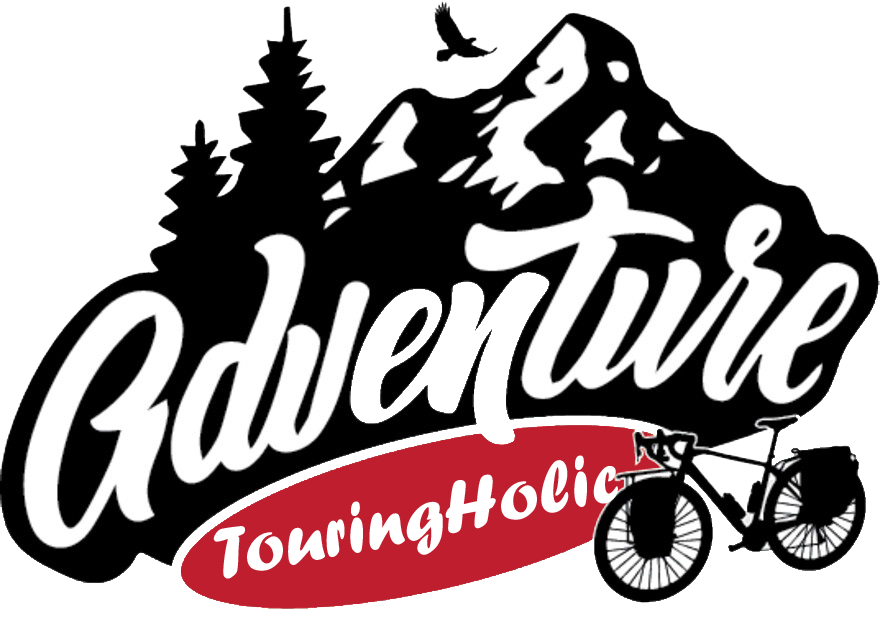
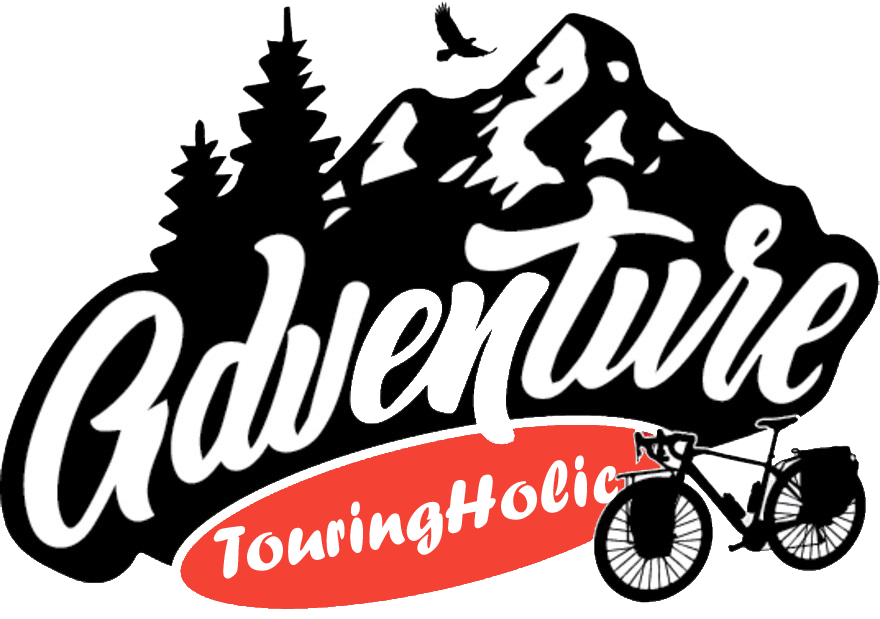
themes

Changed region(s): [[0.1841, 0.6753, 0.767, 0.9822]]

diff --git a/touringholic/lib/view/touringgramscreen.dart b/touringholic/lib/view/touringgramscreen.dart
@@ -1,0 +1,54 @@
+import 'package:flutter/material.dart';
+import 'package:touringholic/model/user.dart';
+import 'package:touringholic/view/mydrawer.dart';
+
+class TouringGramScreen extends StatefulWidget {
+  final User user;
+
+  const TouringGramScreen({Key key, this.user}) : super(key: key);
+
+  @override
+  _TouringGramScreenState createState() => _TouringGramScreenState();
+}
+
+class _TouringGramScreenState extends State<TouringGramScreen> {
+  int _currentIndex = 0;
+  final List<Widget> _children = [];
+  @override
+  Widget build(BuildContext context) {
+    return Scaffold(
+      bottomNavigationBar: BottomNavigationBar(
+          type: BottomNavigationBarType.fixed,
+          selectedItemColor: Colors.red,
+          unselectedItemColor: Colors.red.withOpacity(.60),
+          selectedFontSize: 14,
+          unselectedFontSize: 14,
+          onTap: (value) {
+            setState(() {
+              _currentIndex = value;
+            });
+          },
+          items: [
+            BottomNavigationBarItem(
+              label: 'Latest Grams',
+              icon: Icon(Icons.new_releases),
+            ),
+            BottomNavigationBarItem(
+              label: 'New Gram',
+              icon: Icon(Icons.camera),
+            ),
+            BottomNavigationBarItem(
+                label: 'Your Gram', icon: Icon(Icons.favorite_rounded)),
+          ]),
+      appBar: AppBar(
+        title: Text('Touring Gram'),
+      ),
+      drawer: MyDrawer(user: widget.user),
+      body: Center(
+        child: Container(
+          child: Text('Hello World'),
+        ),
+      ),
+    );
+  }
+}

diff --git a/touringholic/lib/view/registrationscreen.dart b/touringholic/lib/view/registrationscreen.dart
@@ -82,7 +82,7 @@ class _RegistrationScreenState extends State<RegistrationScreen> {
                                 color: Colors.white,
                               )),
                           onPressed: _onRegister,
-                          color: Color.fromRGBO(191, 30, 46, 50)),
+                          color: Colors.red),
                       SizedBox(height: 10),
                     ],
                   ),
@@ -119,7 +119,7 @@ class _RegistrationScreenState extends State<RegistrationScreen> {
           toastLength: Toast.LENGTH_SHORT,
           gravity: ToastGravity.BOTTOM,
           timeInSecForIosWeb: 1,
-          backgroundColor: Color.fromRGBO(191, 30, 46, 50),
+          backgroundColor: Colors.red,
           textColor: Colors.white,
           fontSize: 16.0);
       return;
@@ -168,7 +168,7 @@ class _RegistrationScreenState extends State<RegistrationScreen> {
             toastLength: Toast.LENGTH_SHORT,
             gravity: ToastGravity.BOTTOM,
             timeInSecForIosWeb: 1,
-            backgroundColor: Color.fromRGBO(191, 30, 46, 50),
+            backgroundColor: Colors.red,
             textColor: Colors.white,
             fontSize: 16.0);
         FocusScope.of(context).unfocus();
@@ -179,7 +179,7 @@ class _RegistrationScreenState extends State<RegistrationScreen> {
             toastLength: Toast.LENGTH_SHORT,
             gravity: ToastGravity.BOTTOM,
             timeInSecForIosWeb: 1,
-            backgroundColor: Color.fromRGBO(191, 30, 46, 50),
+            backgroundColor: Colors.red,
             textColor: Colors.white,
             fontSize: 16.0);
       }

diff --git a/touringholic/lib/model/themes.dart b/touringholic/lib/model/themes.dart
@@ -5,10 +5,34 @@ class CustomTheme {
     return ThemeData(
       brightness: Brightness.dark,
       primaryColor: Colors.black,
-      accentColor: Color.fromRGBO(191, 30, 46, 50),
+      accentColor: Colors.red[400],
       // ignore: deprecated_member_use
-      cursorColor: Color.fromRGBO(191, 30, 46, 50),
-      focusColor: Color.fromRGBO(191, 30, 46, 50),
+      focusColor: Colors.red,
+      // Define the default font family.
+      fontFamily: 'Georgia',
+      textSelectionTheme: TextSelectionThemeData(
+          selectionHandleColor: Colors.red,
+          cursorColor: Colors.red),
+      // Define the default TextTheme. Use this to specify the default
+      // text styling for headlines, titles, bodies of text, and more.
+      textTheme: TextTheme(
+        headline1: TextStyle(fontSize: 42.0, fontWeight: FontWeight.bold),
+        headline6: TextStyle(fontSize: 24.0, fontStyle: FontStyle.italic),
+        bodyText2: TextStyle(fontSize: 14.0, fontFamily: 'Hind'),
+      ),
+    );
+  }
+
+  static ThemeData get lighttheme {
+    return ThemeData(
+      brightness: Brightness.light,
+      primaryColor: Colors.red,
+      accentColor: Colors.red[400],
+      // ignore: deprecated_member_use
+      focusColor: Colors.red,
+      textSelectionTheme: TextSelectionThemeData(
+          selectionHandleColor: Colors.red,
+          cursorColor: Colors.red),
       // Define the default font family.
       fontFamily: 'Georgia',
 

diff --git a/touringholic/lib/view/mydrawer.dart b/touringholic/lib/view/mydrawer.dart
@@ -1,10 +1,11 @@
 import 'package:flutter/material.dart';
 import 'package:touringholic/model/user.dart';
-import 'touringgram.dart';
+import 'package:touringholic/view/mainscreen.dart';
+import 'touringgramscreen.dart';
 
 class MyDrawer extends StatefulWidget {
   final User user;
-  
+
   const MyDrawer({Key key, this.user}) : super(key: key);
   @override
   _MyDrawerState createState() => _MyDrawerState();
@@ -37,13 +38,23 @@ class _MyDrawerState extends State<MyDrawer> {
             title: Text("Dashboard"),
             onTap: () {
               Navigator.pop(context);
+              Navigator.push(
+                  context,
+                  MaterialPageRoute(
+                      builder: (content) => MainScreen(
+                            user: widget.user,
+                          )));
             }),
         ListTile(
             title: Text("TouringGram"),
             onTap: () {
               Navigator.pop(context);
-              Navigator.push(context,
-                  MaterialPageRoute(builder: (content) => TouringGram(user: widget.user,)));
+              Navigator.push(
+                  context,
+                  MaterialPageRoute(
+                      builder: (content) => TouringGramScreen(
+                            user: widget.user,
+                          )));
             }),
         ListTile(
             title: Text("Preloved"),

diff --git a/touringholic/lib/view/loginscreen.dart b/touringholic/lib/view/loginscreen.dart
@@ -85,7 +85,7 @@ class _LoginScreenState extends State<LoginScreen> {
                               color: Colors.white,
                             )),
                         onPressed: _onLogin,
-                        color: Color.fromRGBO(191, 30, 46, 50)),
+                        color: Colors.red),
                     SizedBox(height: 10),
                   ],
                 ),
@@ -120,7 +120,7 @@ class _LoginScreenState extends State<LoginScreen> {
             toastLength: Toast.LENGTH_SHORT,
             gravity: ToastGravity.BOTTOM,
             timeInSecForIosWeb: 1,
-            backgroundColor: Color.fromRGBO(191, 30, 46, 50),
+            backgroundColor: Colors.red,
             textColor: Colors.white,
             fontSize: 16.0);
       } else {

diff --git a/touringholic/lib/view/mainscreen.dart b/touringholic/lib/view/mainscreen.dart
@@ -16,7 +16,7 @@ class _MainScreenState extends State<MainScreen> {
   Widget build(BuildContext context) {
     return Scaffold(
       appBar: AppBar(
-        title: Text('MainScreen'),
+        title: Text('Your Dashboard'),
       ),
       drawer: MyDrawer(user: widget.user),
       body: Center(
